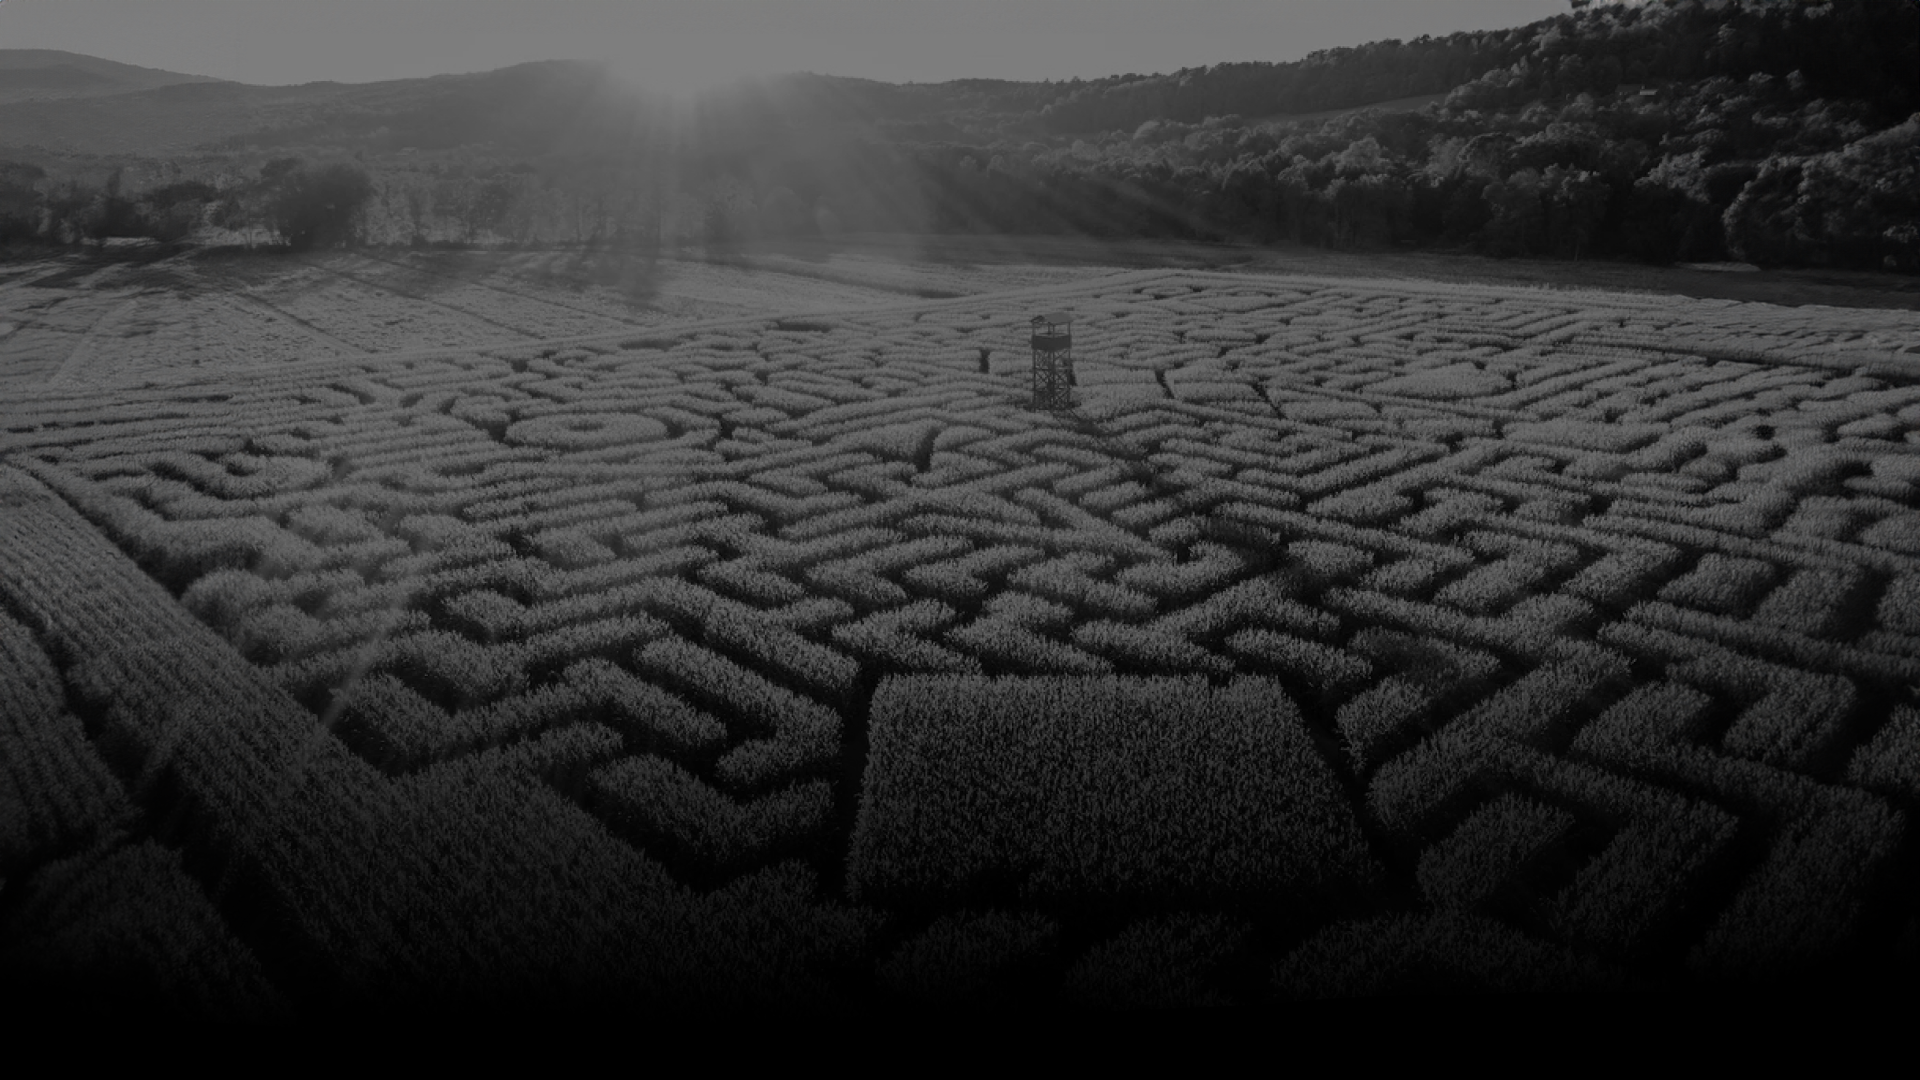
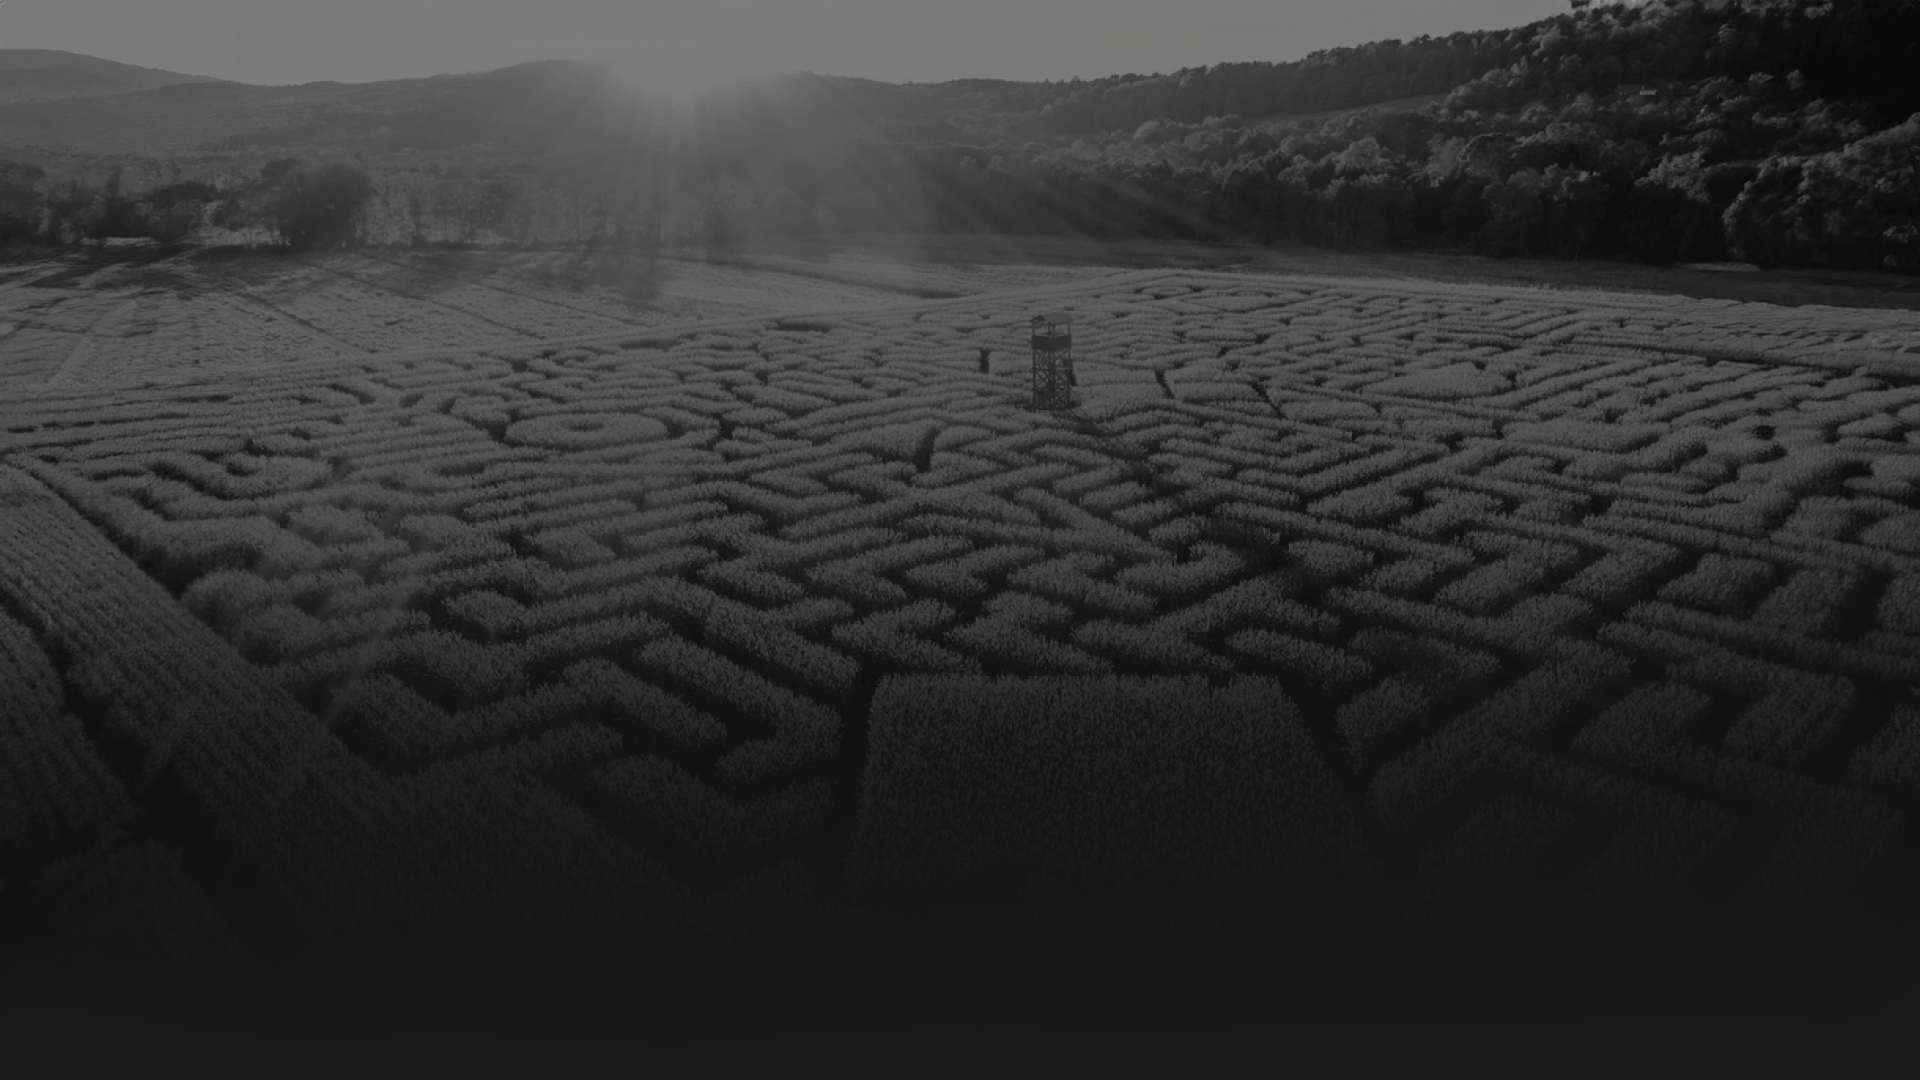
Images added

diff --git a/public/stylesheet/styles.css b/public/stylesheet/styles.css
@@ -581,13 +581,13 @@ video {
   border-radius: 0.5rem;
 }
 
-.bg-black {
+.bg-ks-black {
   --tw-bg-opacity: 1;
-  background-color: rgb(0 0 0 / var(--tw-bg-opacity));
+  background-color: rgb(26 25 25 / var(--tw-bg-opacity));
 }
 
 .bg-ks-black\/60 {
-  background-color: rgb(10 10 10 / 0.6);
+  background-color: rgb(26 25 25 / 0.6);
 }
 
 .bg-ks-orange {
@@ -641,6 +641,21 @@ video {
   line-height: 1.75rem;
 }
 
+.text-xl {
+  font-size: 1.25rem;
+  line-height: 1.75rem;
+}
+
+.text-2xl {
+  font-size: 1.5rem;
+  line-height: 2rem;
+}
+
+.text-4xl {
+  font-size: 2.25rem;
+  line-height: 2.5rem;
+}
+
 .font-semibold {
   font-weight: 600;
 }
@@ -648,6 +663,11 @@ video {
 .text-ks-orange {
   --tw-text-opacity: 1;
   color: rgb(255 174 0 / var(--tw-text-opacity));
+}
+
+.text-ks-white {
+  --tw-text-opacity: 1;
+  color: rgb(255 255 255 / var(--tw-text-opacity));
 }
 
 .text-white {
@@ -662,7 +682,7 @@ video {
 
 .hover\:text-ks-black:hover {
   --tw-text-opacity: 1;
-  color: rgb(10 10 10 / var(--tw-text-opacity));
+  color: rgb(26 25 25 / var(--tw-text-opacity));
 }
 
 .hover\:text-ks-orange:hover {

diff --git a/public/index.html b/public/index.html
@@ -29,11 +29,11 @@
 </head>
 
 <body>
-    <section class="h-[100vh] bg-cover bg-no-repeat" style="background-image: url('img/ks-bg1.png')">
+    <section class="h-[100vh] bg-cover bg-no-repeat" style="background-image: url('img/ks-bg1.png');">
         <header class="bg-ks-black/60 px-10 py-6">
             <nav class="flex justify-between items-center">
                 <a href="index.html">
-                    <img src="img/ks-logo.png" alt="Logo de Kaiserstuhl Escape Game" class="h-auto w-[250px]">
+                    <img src="img/ks-logo1.png" alt="Logo de Kaiserstuhl Escape Game" class="h-auto w-[250px]">
                 </a>
 
                 <ul class="text-white items-center flex gap-8 font-semibold text-lg">
@@ -62,7 +62,15 @@
         </h1>
     </section>
 
-    <section class="h-[100vh] bg-black">
+    <section class="h-[100vh] bg-ks-black">
+        <div>
+            <div class="flex">
+                <h2 class="text-ks-white text-4xl">In Vino Veritas - Trailer</h2>
+                <img src="" alt="">
+            </div>
+
+            
+        </div>
     </section>
 
 

diff --git a/tailwind.config.js b/tailwind.config.js
@@ -6,9 +6,9 @@ module.exports = {
       colors: {
         'ks-orange': "rgb(255 174 0 / <alpha-value>)",
         'ks-green': "rgb(55 179 74 / <alpha-value>)",
-        'ks-black': "rgb(10 10 10 / <alpha-value>)",
-        'ks-grey': "rgb(10 10 10 / <alpha-value>)",
-        'ks-white': '#rgb(69 66 65 / <alpha-value>)',
+        'ks-black': "rgb(26 25 25 / <alpha-value>)",
+        'ks-grey': "rgb(69 66 65 / <alpha-value>)",
+        'ks-white': 'rgb(255 255 255 / <alpha-value>)',
       },
     },
   },

diff --git a/public/vueInscription.html b/public/vueInscription.html
@@ -1,0 +1,14 @@
+<!DOCTYPE html>
+<html lang="fr">
+<head>
+    <meta charset="UTF-8">
+    <meta name="viewport" content="width=device-width, initial-scale=1.0">
+    <title>Kaiserstuhl Outdoor</title>
+</head>
+<body style="margin: 0; padding: 0; box-sizing: border-box;">
+    <section class="h-[100vh] bg-cover bg-no-repeat" style="background-image: url('img/ks-bg2.png');">
+        <h1>Inscription</h1>
+    </section>
+    
+</body>
+</html>
